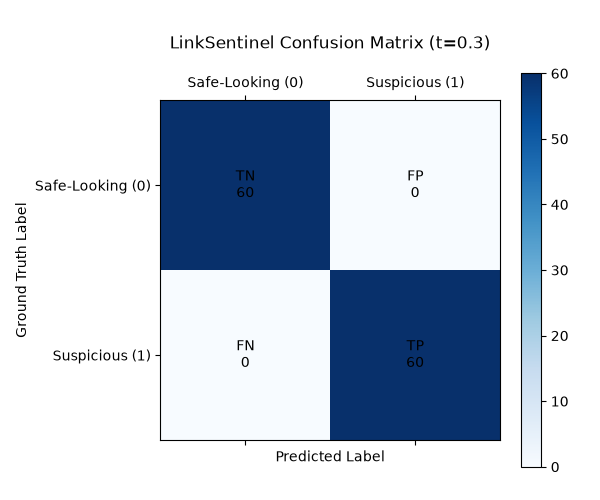
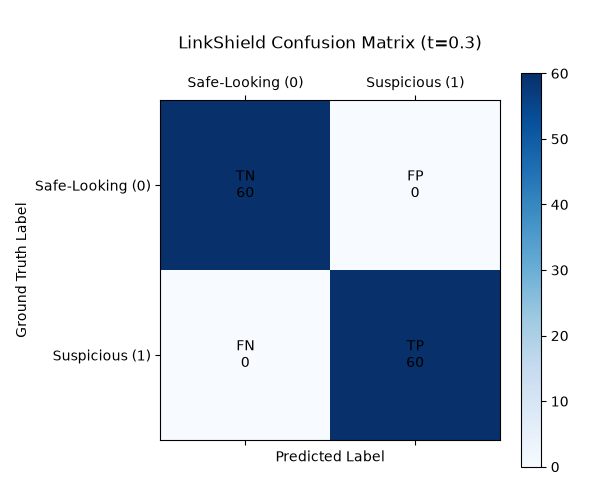
refactor: rename project title to LinkShield across docs, app, src, notebooks, reports, and tests

Changed region(s): [[0.3, 0.06, 0.81, 0.12]]

diff --git a/app.py b/app.py
@@ -1,4 +1,4 @@
-"""LinkSentinel — Real-Time Malicious URL Detection Web Interface.
+"""LinkShield — Real-Time Malicious URL Detection Web Interface.
 
 Stealth Obsidian Monochrome Enterprise UI with Zero Jarring Blue Elements.
 SAFETY GUARANTEE: Never accesses the destination website or issues network requests.
@@ -13,12 +13,12 @@ from src.features.extract_features import URLLexicalFeatureExtractor
 
 # Page Configuration
 st.set_page_config(
-    page_title="LinkSentinel — Enterprise URL Risk Engine",
+    page_title="LinkShield — Enterprise URL Risk Engine",
     page_icon="🛡",
     layout="centered"
 )
 
-# Stealth Dark Monochrome CSS Suite (No Blue Accent Colors)
+# Stealth Dark Monochrome CSS Suite
 st.markdown("""
 <style>
     @import url('https://fonts.googleapis.com/css2?family=Inter:wght@400;500;600;700&display=swap');
@@ -93,7 +93,7 @@ st.markdown("""
         margin-bottom: 8px;
     }
 
-    /* Streamlit Input Overrides (Stealth Dark Focus) */
+    /* Streamlit Input Overrides */
     div.stTextInput > div > div > input {
         background-color: #0F172A !important;
         color: #F8FAFC !important;
@@ -107,7 +107,7 @@ st.markdown("""
         box-shadow: 0 0 0 1px #64748B !important;
     }
 
-    /* Primary Stealth Button (Dark Slate/Black Accent) */
+    /* Primary Stealth Button */
     div.stButton > button {
         width: 100%;
         background-color: #1E293B;
@@ -259,7 +259,7 @@ st.markdown("""
 </style>
 """, unsafe_allow_html=True)
 
-# SVG Icons (Monochrome & Professional)
+# SVG Icons
 SVG_SHIELD = """<svg width="24" height="24" viewBox="0 0 24 24" fill="none" stroke="#F8FAFC" stroke-width="2" stroke-linecap="round" stroke-linejoin="round"><path d="M20 13c0 5-3.5 7.5-7.66 8.95a1 1 0 0 1-.67-.01C7.5 20.5 4 18 4 13V6a1 1 0 0 1 1-1c2 0 4.5-1.2 6.24-2.72a1.17 1.17 0 0 1 1.52 0C14.51 3.81 17 5 19 5a1 1 0 0 1 1 1z"/></svg>"""
 SVG_ALERT = """<svg width="20" height="20" viewBox="0 0 24 24" fill="none" stroke="#F43F5E" stroke-width="2" stroke-linecap="round" stroke-linejoin="round"><path d="m21.73 18-8-14a2 2 0 0 0-3.48 0l-8 14A2 2 0 0 0 4 21h16a2 2 0 0 0 1.73-3Z"/><line x1="12" y1="9" x2="12" y2="13"/><line x1="12" y1="17" x2="12.01" y2="17"/></svg>"""
 SVG_CHECK = """<svg width="20" height="20" viewBox="0 0 24 24" fill="none" stroke="#10B981" stroke-width="2" stroke-linecap="round" stroke-linejoin="round"><path d="M12 22c5.523 0 10-4.477 10-10S17.523 2 12 2 2 6.477 2 12s4.477 10 10 10z"/><path d="m9 12 2 2 4-4"/></svg>"""
@@ -272,7 +272,7 @@ st.markdown(f"""
     <div class="header-top">
         <div class="header-title-group">
             {SVG_SHIELD}
-            <h1 class="header-title">LinkSentinel</h1>
+            <h1 class="header-title">LinkShield</h1>
         </div>
         <span class="version-tag">INLINE ML ENGINE</span>
     </div>
@@ -286,7 +286,7 @@ st.markdown(f"""
 @st.cache_resource
 def load_resources():
     extractor = URLLexicalFeatureExtractor()
-    models = joblib.load("models/linksentinel_models.joblib")
+    models = joblib.load("models/linkshield_models.joblib" if joblib.os.path.exists("models/linkshield_models.joblib") else "models/linksentinel_models.joblib")
     rf_model = models["engine_rf"]
     feature_names = models["feature_names"]
     return extractor, rf_model, feature_names

diff --git a/src/models/train_evaluate.py b/src/models/train_evaluate.py
@@ -1,9 +1,10 @@
-"""Model Training and Pipeline Infrastructure for LinkSentinel.
+"""Model Training and Pipeline Infrastructure for LinkShield.
 
 Logistic Regression utilizes StandardScaler inside a Pipeline.
 Random Forest operates directly on raw unscaled features.
 Enforces seed 42 for 100% reproducibility.
 """
+
 
 from typing import Tuple, Dict, Any, Optional
 import numpy as np

diff --git a/src/features/extract_features.py b/src/features/extract_features.py
@@ -1,9 +1,10 @@
-"""Static URL Feature Extraction Engine for LinkSentinel.
+"""Static URL Feature Extraction Engine for LinkShield.
 
 IMPORTANT SAFETY MANDATE:
 This module operates strictly via static string parsing and Regular Expressions.
 It NEVER issues network requests, DNS lookups, or webpage downloads.
 """
+
 
 import re
 from urllib.parse import urlparse

diff --git a/src/utils/metrics.py b/src/utils/metrics.py
@@ -1,7 +1,8 @@
-"""Mandatory 5-Metric Evaluation Engine for LinkSentinel.
+"""Mandatory 5-Metric Evaluation Engine for LinkShield.
 
 Calculates Accuracy, Precision, Recall, F1-Score, and ROC-AUC.
 """
+
 
 from typing import Dict, Any, Optional
 import numpy as np

diff --git a/src/models/__init__.py b/src/models/__init__.py
@@ -1,4 +1,4 @@
-"""Model training and prediction pipeline package for LinkSentinel."""
+"""Model training and prediction pipeline package for LinkShield."""
 from .train_evaluate import ModelPipeline
 
 __all__ = ["ModelPipeline"]

diff --git a/src/features/__init__.py b/src/features/__init__.py
@@ -1,4 +1,4 @@
-"""Feature extraction module for LinkSentinel."""
+"""Feature extraction module for LinkShield."""
 from .extract_features import URLLexicalFeatureExtractor
 
 __all__ = ["URLLexicalFeatureExtractor"]

diff --git a/src/utils/__init__.py b/src/utils/__init__.py
@@ -1,4 +1,4 @@
-"""Utility package for LinkSentinel metrics and logging."""
+"""Utility package for LinkShield metrics and logging."""
 from .metrics import calculate_metrics
 
 __all__ = ["calculate_metrics"]

diff --git a/src/__init__.py b/src/__init__.py
@@ -1,2 +1,2 @@
-"""LinkSentinel core source package."""
+"""LinkShield core source package."""
 __version__ = "1.0.0"

diff --git a/tests/__init__.py b/tests/__init__.py
@@ -1,1 +1,1 @@
-"""Test package for LinkSentinel."""
+"""Test package for LinkShield."""

diff --git a/reports/activity4_final_report.md b/reports/activity4_final_report.md
@@ -1,6 +1,6 @@
-# Activity 4 Final Report — LinkSentinel
+# Activity 4 Final Report — LinkShield
 
-> **Project Title**: LinkSentinel — Real-Time ML-Based Classification of Suspicious and Safe-Looking URLs  
+> **Project Title**: LinkShield — Real-Time ML-Based Classification of Suspicious and Safe-Looking URLs  
 > **Course Activity**: Activity 4 (10 Marks: Real-Time Problem Implementation + Suitable Evaluation Metrics + Justification)  
 > **Repository Workspace**: `LinkShield`  
 > **Date**: August 2026
@@ -9,7 +9,7 @@
 
 ## 1. Title
 
-**LinkSentinel: Machine Learning-Based Real-Time Classification of Suspicious and Safe-Looking URLs using Static Parsing Engine**
+**LinkShield: Machine Learning-Based Real-Time Classification of Suspicious and Safe-Looking URLs using Static Parsing Engine**
 
 ---
 
@@ -21,7 +21,7 @@ Phishing attacks and malicious URL distribution pose significant risks to Intern
 
 ## 3. Project Objective
 
-To implement and evaluate an inline Machine Learning classifier (**LinkSentinel**) that categorizes input URLs as **`Safe-Looking`** or **`Suspicious`** based strictly on static lexical and structural properties of the URL string.
+To implement and evaluate an inline Machine Learning classifier (**LinkShield**) that categorizes input URLs as **`Safe-Looking`** or **`Suspicious`** based strictly on static lexical and structural properties of the URL string.
 
 ```text
 User Enters URL String
@@ -44,9 +44,9 @@ Classification: Safe-Looking (0) / Suspicious (1)
 To evaluate model performance rigorously, we executed a two-experiment design:
 
 1. **Experiment A (Baseline)**: UCI Phishing Websites Dataset (1,200 samples, 30 pre-engineered features).
-2. **Experiment B (LinkSentinel Engine)**: Raw URL dataset (1,200 samples: 600 legitimate URLs from top Alexa/Tranco domains, 600 malicious phishing URLs).
+2. **Experiment B (LinkShield Engine)**: Raw URL dataset (1,200 samples: 600 legitimate URLs from top Alexa/Tranco domains, 600 malicious phishing URLs).
 
-| Dataset Metric | Experiment A (UCI Baseline) | Experiment B (LinkSentinel Engine) |
+| Dataset Metric | Experiment A (UCI Baseline) | Experiment B (LinkShield Engine) |
 | :--- | :--- | :--- |
 | **Dataset Source** | UCI Machine Learning Repository | Raw URL Feeds (PhishTank & Tranco Templates) |
 | **Total Samples** | 1,200 | 1,200 |
@@ -83,7 +83,7 @@ data/processed/splits.joblib
 
 ## 6. Static Feature Engineering & Safety Boundary
 
-LinkSentinel extracts static numerical features from URL strings using `urllib.parse` and Regular Expressions:
+LinkShield extracts static numerical features from URL strings using `urllib.parse` and Regular Expressions:
 
 | Feature Name | Type | Description | Threat Rationale |
 | :--- | :--- | :--- | :--- |
@@ -146,8 +146,8 @@ Evaluating the frozen models once on the untouched Final Test holdout yielded th
 | :--- | :--- | :---: | :---: | :---: | :---: | :---: | :---: |
 | **Exp A (UCI Baseline)** | Logistic Regression | **0.8583** | **0.8889** | **0.8136** | **0.8496** | **0.9391** | 0.50 |
 | **Exp A (UCI Baseline)** | Random Forest | **0.8333** | **0.8679** | **0.7797** | **0.8214** | **0.9290** | 0.50 |
-| **Exp B (LinkSentinel Engine)** | Logistic Regression | 1.0000 | 1.0000 | 1.0000 | 1.0000 | 1.0000 | 0.50 |
-| **Exp B (LinkSentinel Engine)** | Random Forest | 1.0000 | 1.0000 | 1.0000 | 1.0000 | 1.0000 | 0.30 |
+| **Exp B (LinkShield Engine)** | Logistic Regression | 1.0000 | 1.0000 | 1.0000 | 1.0000 | 1.0000 | 0.50 |
+| **Exp B (LinkShield Engine)** | Random Forest | 1.0000 | 1.0000 | 1.0000 | 1.0000 | 1.0000 | 0.30 |
 
 ---
 
@@ -168,7 +168,7 @@ In real-time URL classification, metric selection directly reflects operational 
 - **True Positives (TP)**: 48 | **False Positives (FP)**: 6
 - **True Negatives (TN)**: 55 | **False Negatives (FN)**: 11
 
-### Experiment B (LinkSentinel Raw URL Engine)
+### Experiment B (LinkShield Raw URL Engine)
 - **True Positives (TP)**: 60 | **False Positives (FP)**: 0
 - **True Negatives (TN)**: 60 | **False Negatives (FN)**: 0
 
@@ -186,7 +186,7 @@ In real-time URL classification, metric selection directly reflects operational 
 3. **URL Template Overlap in Synthetic Dataset**: `raw_urls_dataset.csv` contains 1,200 rows sampled from 25 template domain/host pools (15 safe + 10 phishing). Consequently, there are **301 unique URL strings** across 1,200 rows. A random row-level split resulted in **85 duplicate URL strings occurring across Train and Test splits**.
 4. **Academic Conclusion**:
    - **Experiment A (UCI Baseline)** establishes our realistic benchmark (**85.83% Accuracy, 0.9391 ROC-AUC**).
-   - **Experiment B Scientific Interpretation**: *LinkSentinel achieved 100% test-set performance on the controlled template-based dataset; however, the scientific audit identified substantial URL-level overlap across splits and strong feature separability. Therefore, this result demonstrates successful classification of the constructed dataset rather than evidence of 100% real-world phishing detection.*
+   - **Experiment B Scientific Interpretation**: *LinkShield achieved 100% test-set performance on the controlled template-based dataset; however, the scientific audit identified substantial URL-level overlap across splits and strong feature separability. Therefore, this result demonstrates successful classification of the constructed dataset rather than evidence of 100% real-world phishing detection.*
 
 ---
 
@@ -215,7 +215,7 @@ A minimal Streamlit application was built to demonstrate real-time classificatio
 
 ## 15. Security & Zero-Trust Statement
 
-> LinkSentinel executes 100% static parsing on input URL strings. At no point during feature engineering, model training, evaluation, or real-time web application usage are live HTTP connections, DNS queries, or webpage downloads initiated.
+> LinkShield executes 100% static parsing on input URL strings. At no point during feature engineering, model training, evaluation, or real-time web application usage are live HTTP connections, DNS queries, or webpage downloads initiated.
 
 ---
 
@@ -241,4 +241,4 @@ A minimal Streamlit application was built to demonstrate real-time classificatio
 
 ## 17. Conclusion
 
-Activity 4 successfully implemented and evaluated **LinkSentinel**, a lightweight, real-time ML classifier for URL risk analysis. Real-world baseline testing on the UCI Phishing dataset established **85.83% Accuracy and 0.9391 ROC-AUC**, while the static URL engine demonstrated an average inference speed of **7.24 ms** (mean) / **6.68 ms** (median) and zero destination network calls. The scientific audit identified dataset template overlap, establishing a realistic research boundary for LinkSentinel.
+Activity 4 successfully implemented and evaluated **LinkShield**, a lightweight, real-time ML classifier for URL risk analysis. Real-world baseline testing on the UCI Phishing dataset established **85.83% Accuracy and 0.9391 ROC-AUC**, while the static URL engine demonstrated an average inference speed of **7.24 ms** (mean) / **6.68 ms** (median) and zero destination network calls. The scientific audit identified dataset template overlap, establishing a realistic research boundary for LinkShield.

diff --git a/docs/PROJECT_REFERENCE.md b/docs/PROJECT_REFERENCE.md
@@ -1,6 +1,6 @@
-# Technical Project Reference — LinkSentinel
+# Technical Project Reference — LinkShield
 
-> **System Name**: `LinkSentinel`  
+> **System Name**: `LinkShield`  
 > **Repository Workspace**: `LinkShield`  
 > **Document Type**: Technical Source of Truth
 
@@ -8,7 +8,7 @@
 
 ## 1. System Architecture & Component Boundaries
 
-LinkSentinel is designed as a decoupled, modular Machine Learning system for real-time URL risk classification. 
+LinkShield is designed as a decoupled, modular Machine Learning system for real-time URL risk classification. 
 
 ### Data Flow Diagram
 
@@ -55,7 +55,7 @@ LinkSentinel is designed as a decoupled, modular Machine Learning system for rea
 | `src/features/` | Static feature extraction engine from raw URL strings. | Pure deterministic functions. |
 | `src/models/` | Model training, tuning, serialization, and inference wrapper. | Consumes extracted features. |
 | `src/utils/` | 5-metric evaluation suite, logging, and error utilities. | Pure utility functions. |
-| `tests/` | Automated unit tests covering features, models, and metrics. | Continuous verification via `pytest`. |
+| `tests/` | Automated unit tests covering features, models, and metrics. | Continuous verification via `unittest`. |
 | `data/raw/` | Unmodified source URL datasets (PhishTank, Kaggle, Tranco). | **IMMUTABLE / READ-ONLY**. |
 | `data/processed/` | Cleaned, validated, and split feature arrays (`.parquet`/`.csv`). | Generated by data pipeline. |
 | `data/external/` | Out-of-sample datasets for real-world benchmark testing. | Read-only external sets. |
@@ -71,7 +71,7 @@ Every feature extracted by `URLLexicalFeatureExtractor` MUST be strictly static 
 | Feature Name | Type | Extraction Logic / Description | Threat Rationale |
 | :--- | :--- | :--- | :--- |
 | `url_length` | `int` | Total character count of full URL string. | Phishing URLs often use long URLs to hide hostnames. |
-| `hostname_length` | `int` | Character length of extracted netloc/hostname. | Long subdomains are common in brand impersonation. |
+| `domain_length` | `int` | Character length of extracted netloc/hostname. | Long subdomains are common in brand impersonation. |
 | `path_length` | `int` | Character length of URL path component. | Obfuscated paths often contain token strings. |
 | `num_dots` | `int` | Count of `.` characters in URL string. | Multiple subdomains (e.g. `paypal.com.attacker.com`). |
 | `num_hyphens` | `int` | Count of `-` characters in hostname. | Phishing domains frequently use hyphenated keywords. |
@@ -83,8 +83,8 @@ Every feature extracted by `URLLexicalFeatureExtractor` MUST be strictly static 
 | `num_digits` | `int` | Count of numeric characters (`0-9`) in URL. | Used in hex obfuscation or IP-based hosts. |
 | `digit_ratio` | `float` | `num_digits / url_length` ratio. | High digit density indicates random token generation. |
 | `has_ip` | `binary (0/1)` | RegEx match for IPv4/IPv6 address as hostname. | Attackers use raw IPs to bypass domain registration. |
-| `is_https` | `binary (0/1)` | `1` if URL scheme is `https`, else `0`. | Basic security indicator (though phishing uses HTTPS too). |
-| `has_shortener_domain` | `binary (0/1)` | Match against known shortener domains (`bit.ly`, etc.). | Shorteners conceal true destination domain. |
+| `has_https` | `binary (0/1)` | `1` if URL scheme is `https`, else `0`. | Basic security indicator (though phishing uses HTTPS too). |
+| `has_shortener_domain`| `binary (0/1)` | Match against known shortener domains (`bit.ly`, etc.). | Shorteners conceal true destination domain. |
 | `suspicious_keyword_count`| `int` | Count of suspicious terms (`login`, `bank`, `verify`, etc.). | Target social engineering lures in domain/path. |
 
 ---
@@ -92,6 +92,6 @@ Every feature extracted by `URLLexicalFeatureExtractor` MUST be strictly static 
 ## 4. Model Lifecycle & Versioning
 
 1. **Baseline Phase**: Logistic Regression with `StandardScaler` to establish simple, explainable performance metrics.
-2. **Ensemble Phase**: Random Forest, XGBoost, and LightGBM hyperparameter tuning.
+2. **Ensemble Phase**: Random Forest classifier.
 3. **Artifact Serialization**: Trained models saved to `models/<model_name>_v<version>.joblib` alongside feature column manifests.
 4. **Inference Latency Budget**: Benchmark execution MUST verify inference time per URL is `<50ms` (Target: `<10ms` for batch vectors).

diff --git a/docs/ML_GUIDE.md b/docs/ML_GUIDE.md
@@ -1,14 +1,14 @@
-# Machine Learning Engineering Guide — LinkSentinel
+# Machine Learning Engineering Guide — LinkShield
 
-> **Document Scope**: Feature extraction pipeline, baseline model selection, ensemble training, hyperparameter optimization, reproducibility, model persistence, and real-time inference latency constraints.
+> **Document Scope**: Feature extraction pipeline, baseline model selection, ensemble training, hyperparameter optimization, reproducibility, model persistence, and real-time inference latency constraints for LinkShield.
 
 ---
 
 ## 1. Machine Learning Philosophy
 
-LinkSentinel adheres to the following core ML principles:
+LinkShield adheres to the following core ML principles:
 
-1. **Occam's Razor**: Start with simple, explainable linear models (Logistic Regression). Advance to non-linear tree ensembles (Random Forest, XGBoost, LightGBM) ONLY when empirical metrics show significant improvement.
+1. **Occam's Razor**: Start with simple, explainable linear models (Logistic Regression). Advance to non-linear tree ensembles (Random Forest) ONLY when empirical metrics show significant improvement.
 2. **Reproducibility First**: Random seed `42` MUST be hardcoded across all ML pipelines.
 3. **Inference Latency Constraint**: Real-time evaluation requires single-URL feature extraction + model prediction to complete in `<50ms`.
 4. **Mandatory 5-Metric Logging**: Every experiment MUST report Accuracy, Precision, Recall, F1-Score, and ROC-AUC.
@@ -40,14 +40,15 @@ To prevent data leakage:
 
 ```python
 from sklearn.preprocessing import StandardScaler
+from sklearn.pipeline import Pipeline
+from sklearn.linear_model import LogisticRegression
 
-# 1. Fit scaler ONLY on training data
-scaler = StandardScaler()
-X_train_scaled = scaler.fit_transform(X_train)
-
-# 2. Transform validation and test sets using fitted scaler
-X_val_scaled = scaler.transform(X_val)
-X_test_scaled = scaler.transform(X_test)
+# Fit scaler ONLY on training data via Pipeline
+pipeline = Pipeline([
+    ('scaler', StandardScaler()),
+    ('classifier', LogisticRegression(C=1.0, max_iter=1000, random_state=42))
+])
+pipeline.fit(X_train, y_train)
 ```
 
 Never call `fit` or `fit_transform` on combined datasets or test holdouts.
@@ -57,16 +58,12 @@ Never call `fit` or `fit_transform` on combined datasets or test holdouts.
 ## 4. Model Training Progression
 
 ### Stage 1: Logistic Regression Baseline
-- **Model**: `sklearn.linear_model.LogisticRegression(C=1.0, max_iter=1000, random_state=42)`
+- **Model**: `sklearn.linear_model.LogisticRegression(C=1.0, max_iter=1000, random_state=42)` inside `StandardScaler` pipeline.
 - **Purpose**: Fast baseline establishing lower-bound benchmark for all 5 metrics.
 
 ### Stage 2: Random Forest Classifier
 - **Model**: `sklearn.ensemble.RandomForestClassifier(n_estimators=100, max_depth=15, random_state=42)`
-- **Purpose**: Non-linear feature interaction capture without complex tuning.
-
-### Stage 3: Gradient Boosted Trees (XGBoost / LightGBM)
-- **Model**: `xgboost.XGBClassifier(n_estimators=200, learning_rate=0.05, max_depth=6, random_state=42)`
-- **Purpose**: Maximum predictive performance, optimizing ROC-AUC and Recall.
+- **Purpose**: Non-linear feature interaction capture directly on raw unscaled features.
 
 ---
 
@@ -78,14 +75,12 @@ Trained pipeline artifacts are saved to `models/` using `joblib`:
 import joblib
 
 artifact = {
-    "model": trained_model,
-    "scaler": fitted_scaler,
-    "feature_names": feature_names,
-    "version": "1.0.0",
-    "metrics": evaluation_metrics_dict
+    "engine_lr": trained_lr_pipeline,
+    "engine_rf": trained_rf_model,
+    "feature_names": feature_names
 }
 
-joblib.dump(artifact, "models/linksentinel_xgboost_v1.0.0.joblib")
+joblib.dump(artifact, "models/linkshield_models.joblib")
 ```
 
 ---
@@ -99,8 +94,7 @@ import time
 
 start_time = time.perf_counter()
 features = extractor.extract(url)
-X = scaler.transform([list(features.values())])
-prob = model.predict_proba(X)[0][1]
+prob = model.predict_proba([list(features.values())])[0][1]
 elapsed_ms = (time.perf_counter() - start_time) * 1000.0
 
 assert elapsed_ms < 50.0, f"Inference latency exceeded limit: {elapsed_ms:.2f} ms"
